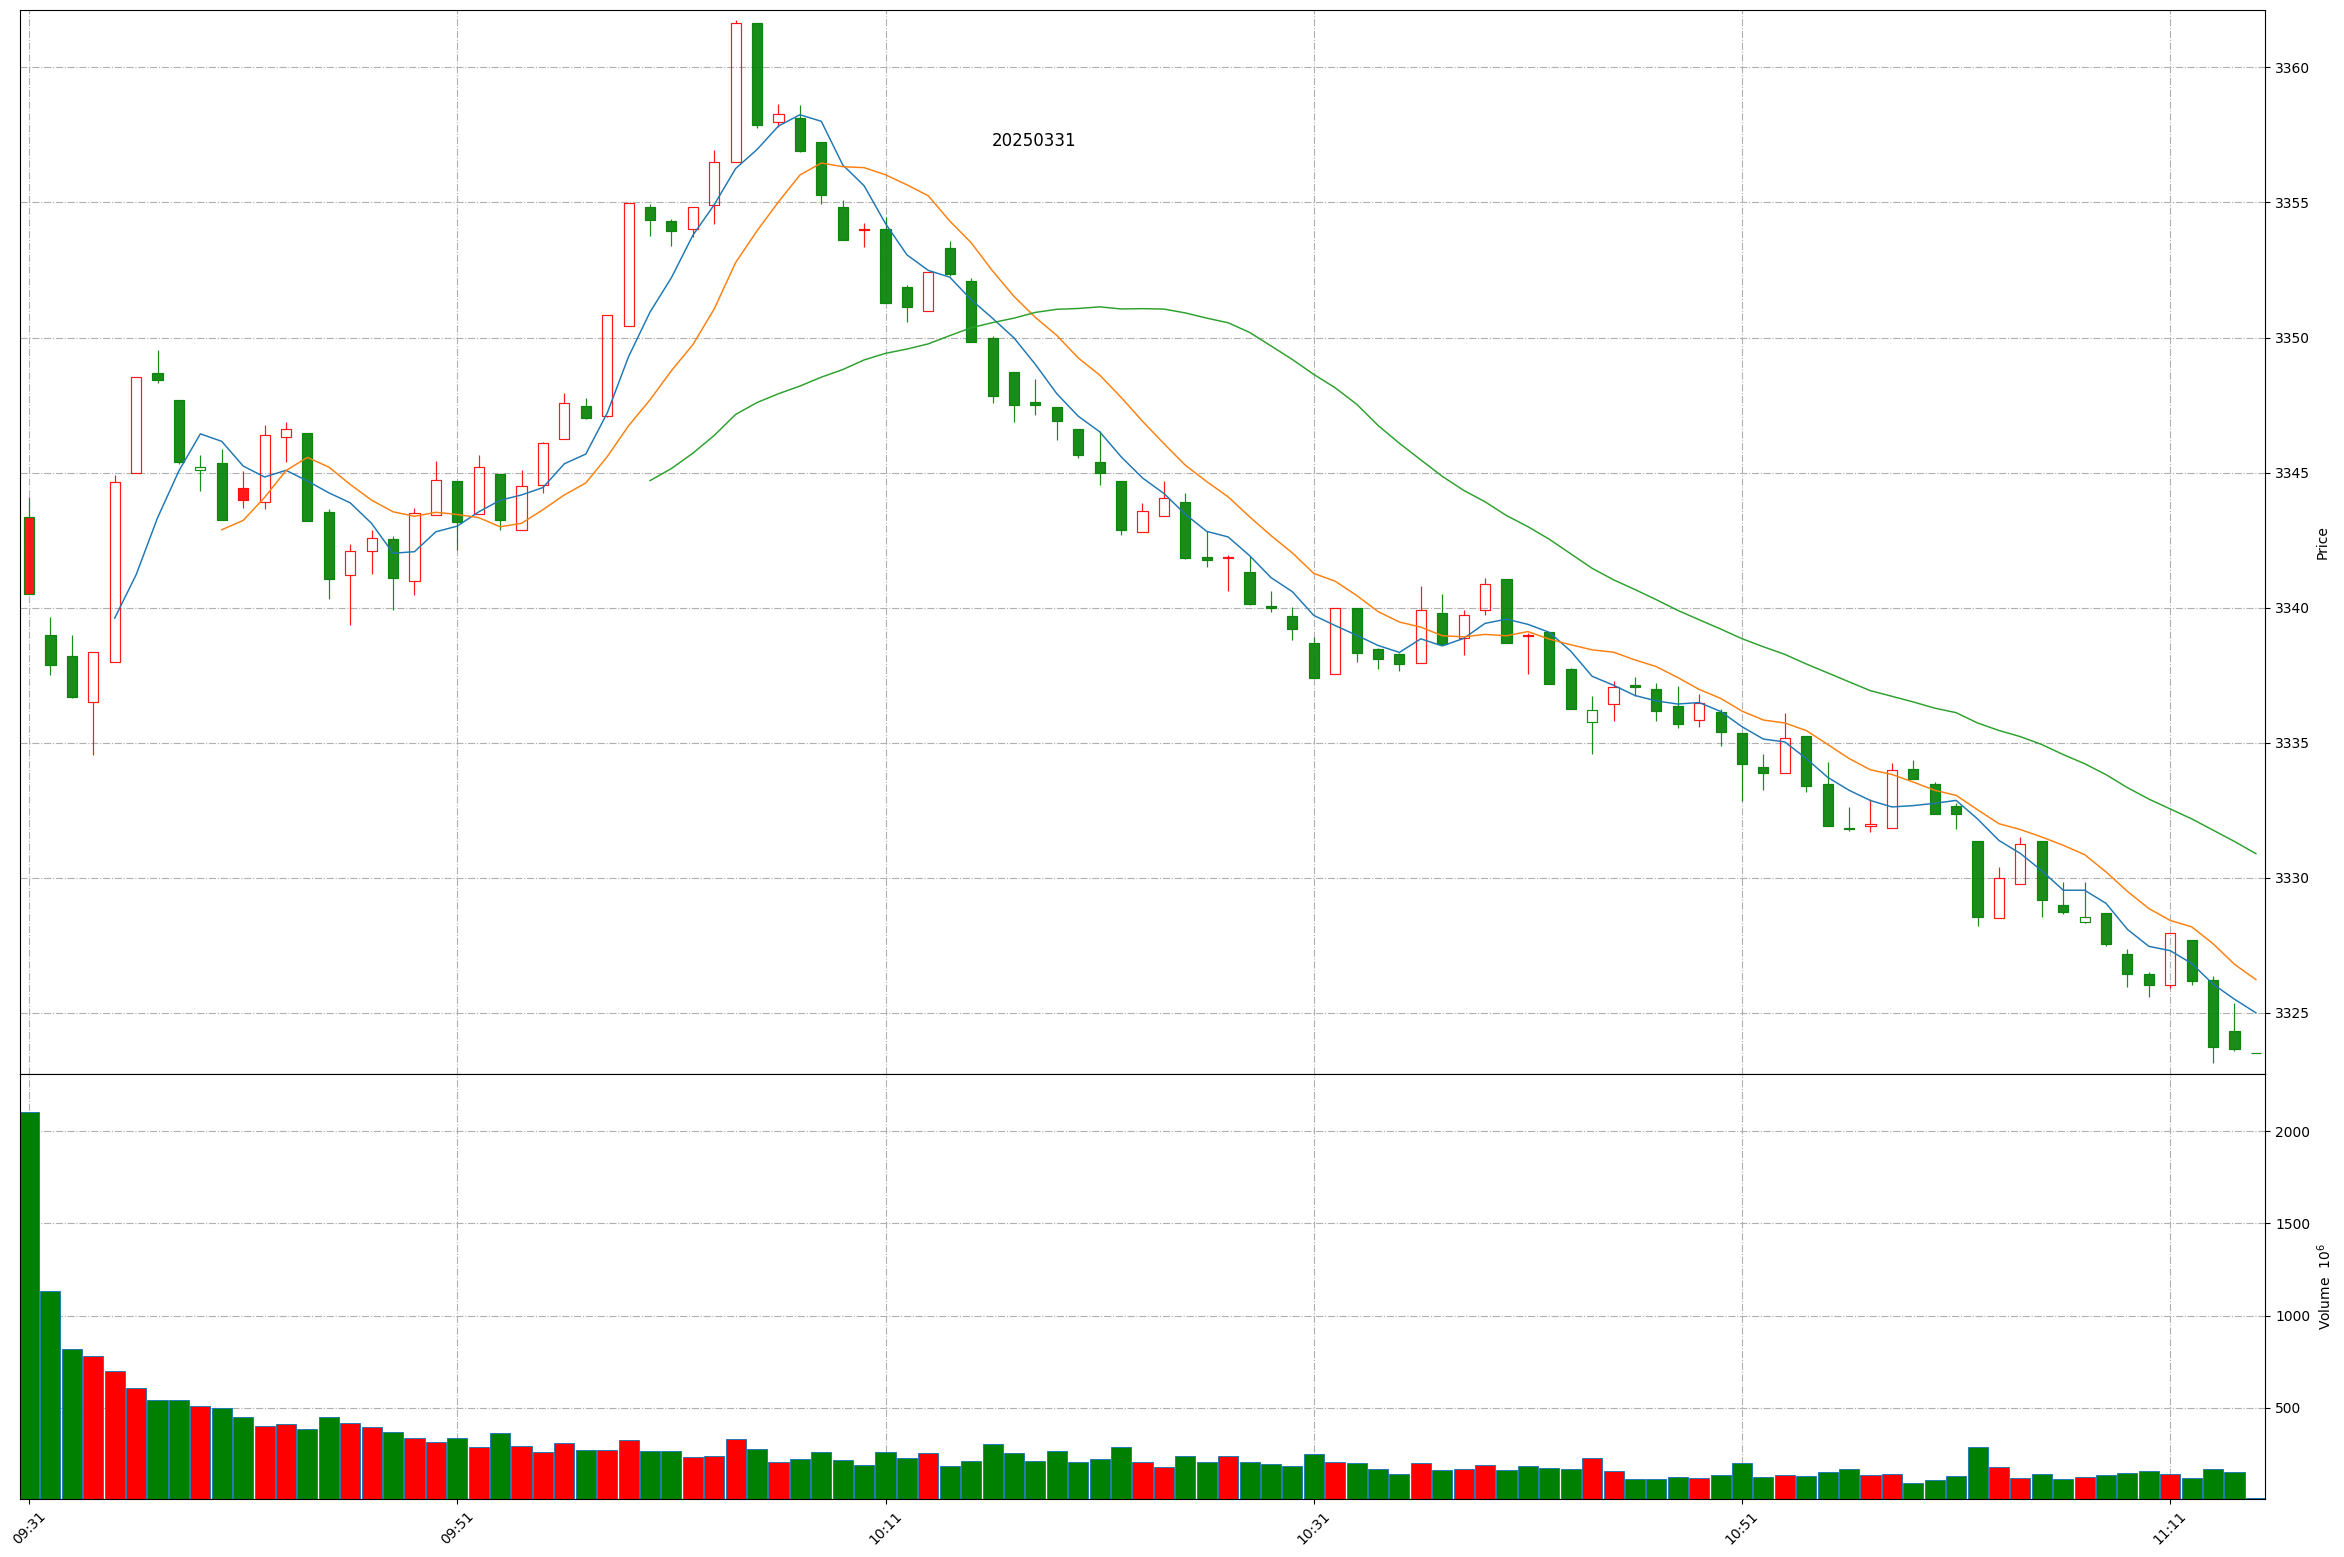
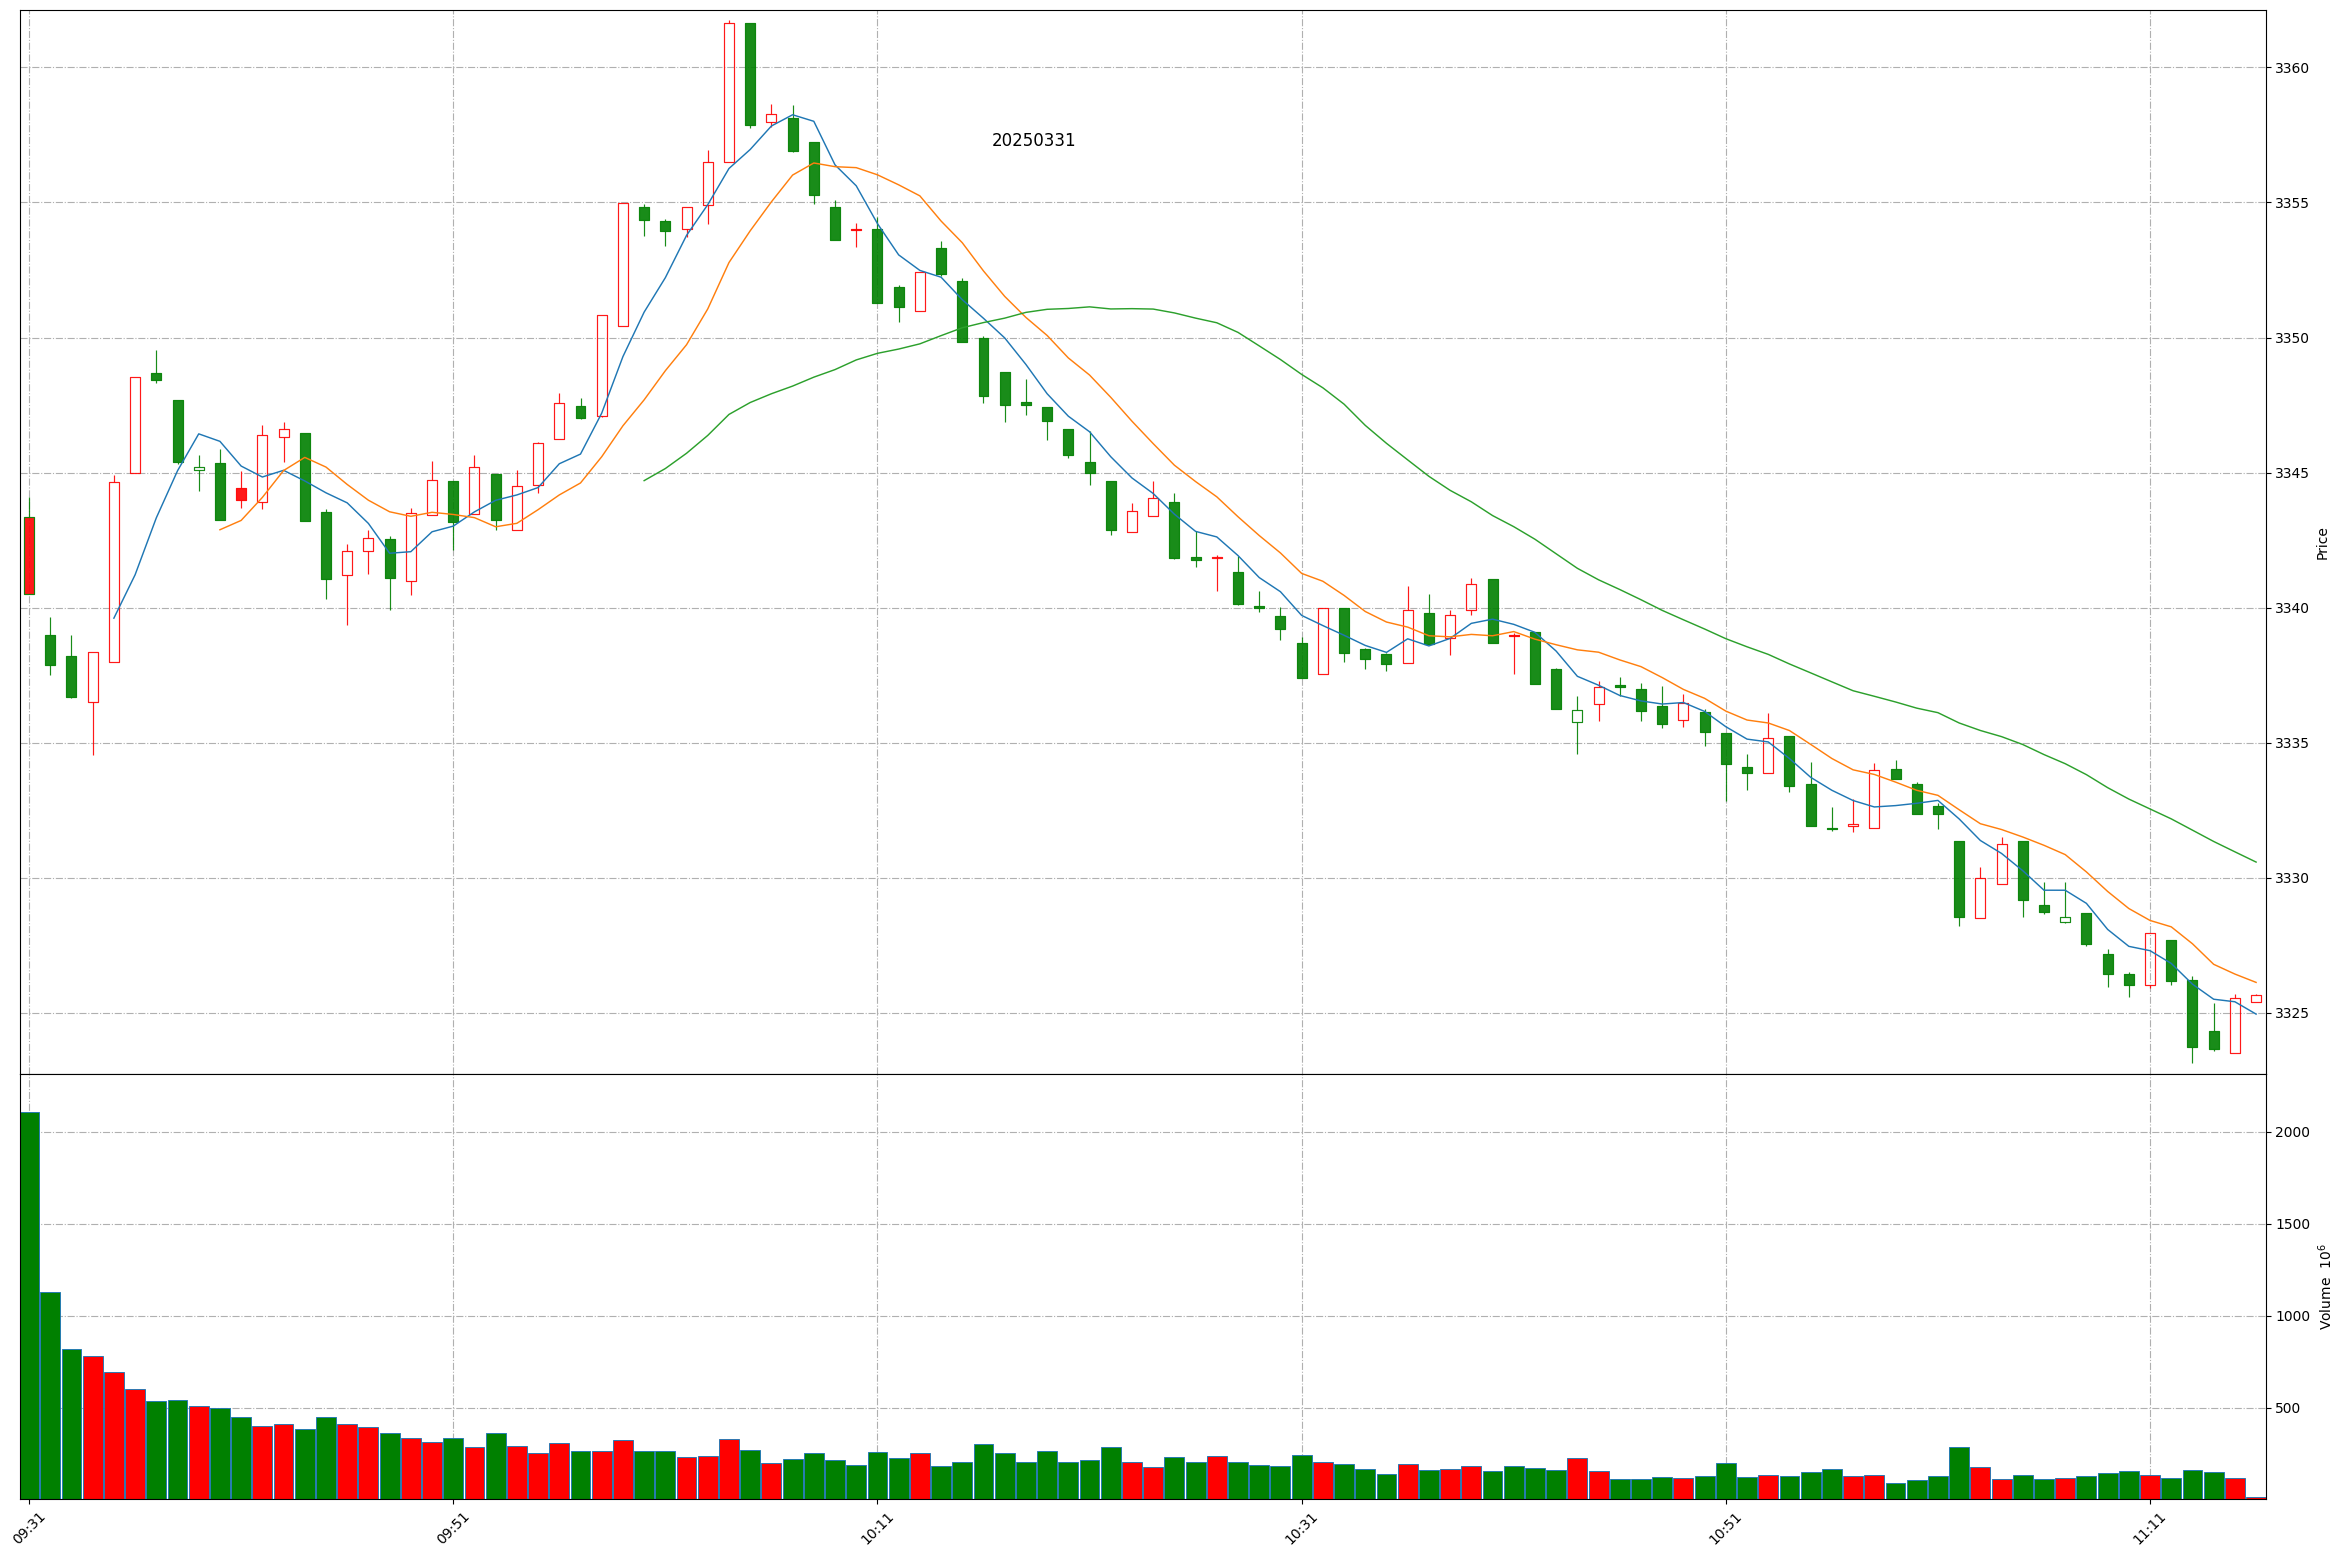
Github action update at 2025-03-31 11:15:20.

diff --git a/README.md b/README.md
@@ -1,11 +1,11 @@
 
 # Daily-A-share-market-quotes 每日 A 股指数（5min 更新）- 20250331
 
-### 上证指数 20250331 11:14
+### 上证指数 20250331 11:15
 ![](./fig/2025/3/20250331-sh000001.png)
 
-### 深证成指 20250331 11:14
+### 深证成指 20250331 11:15
 ![](./fig/2025/3/20250331-sz399001.png)
 
-### 北证50 20250331 11:14
+### 北证50 20250331 11:15
 ![](./fig/2025/3/20250331-bj899050.png)
